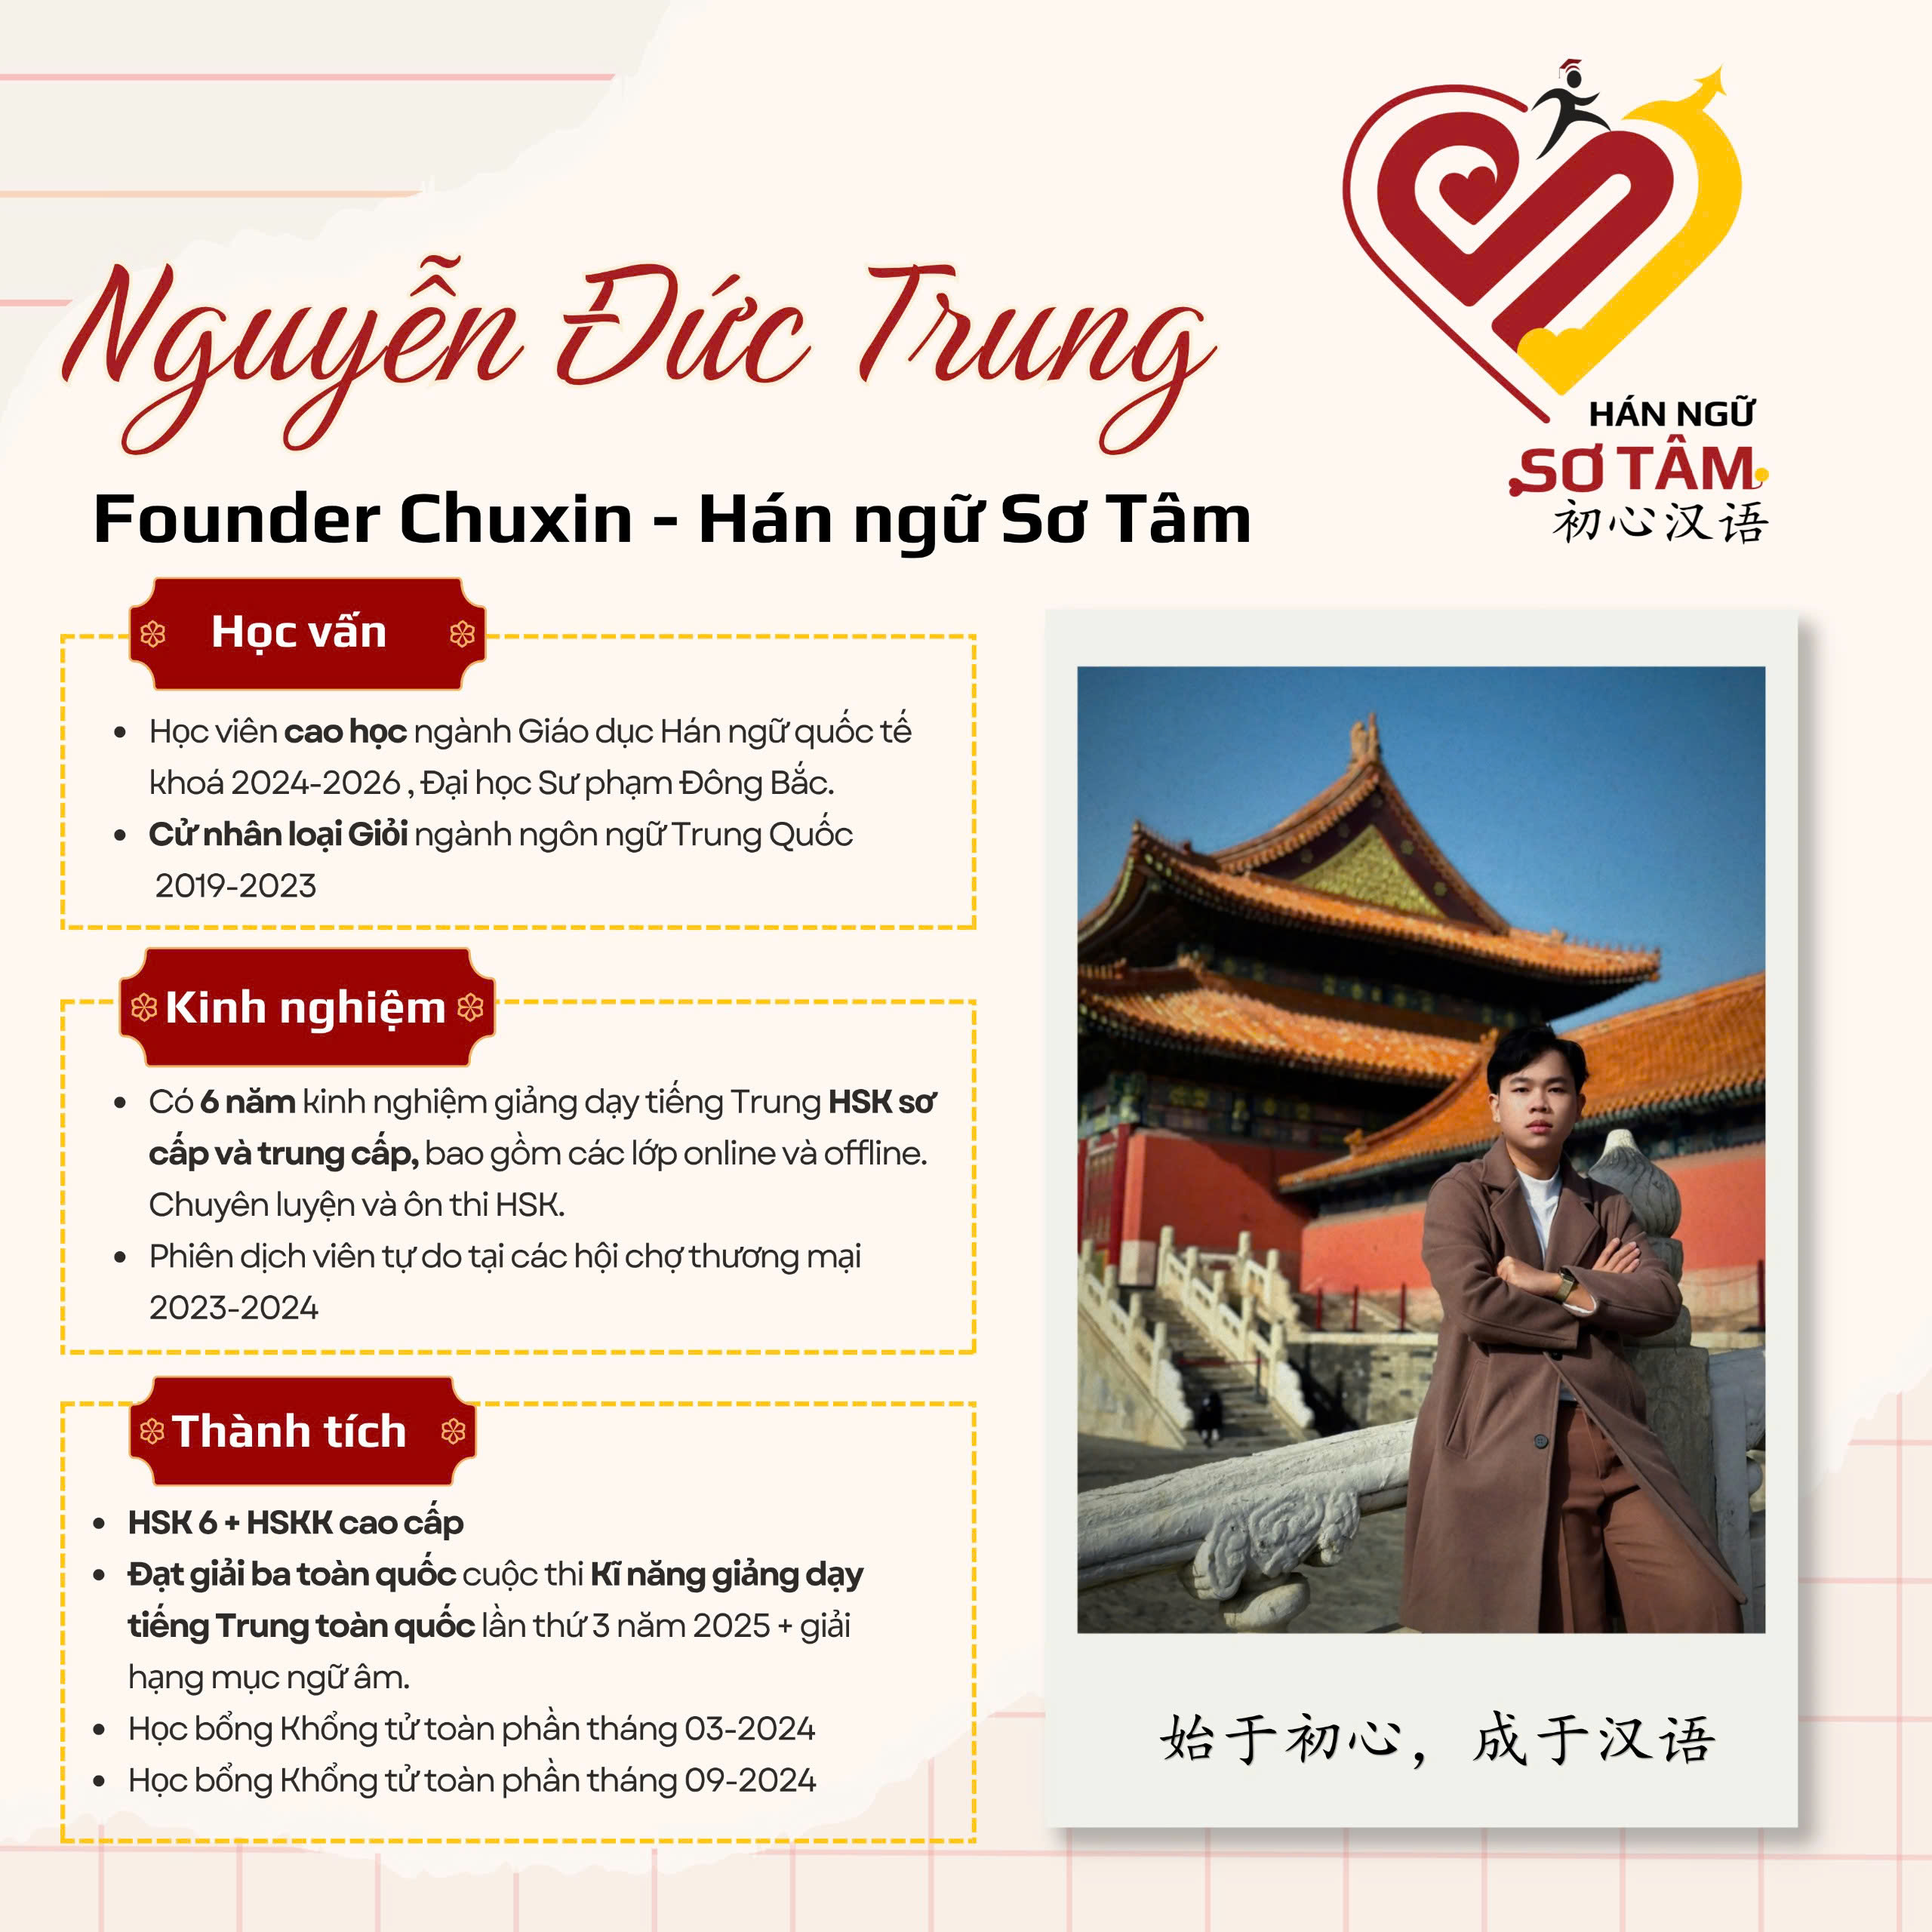
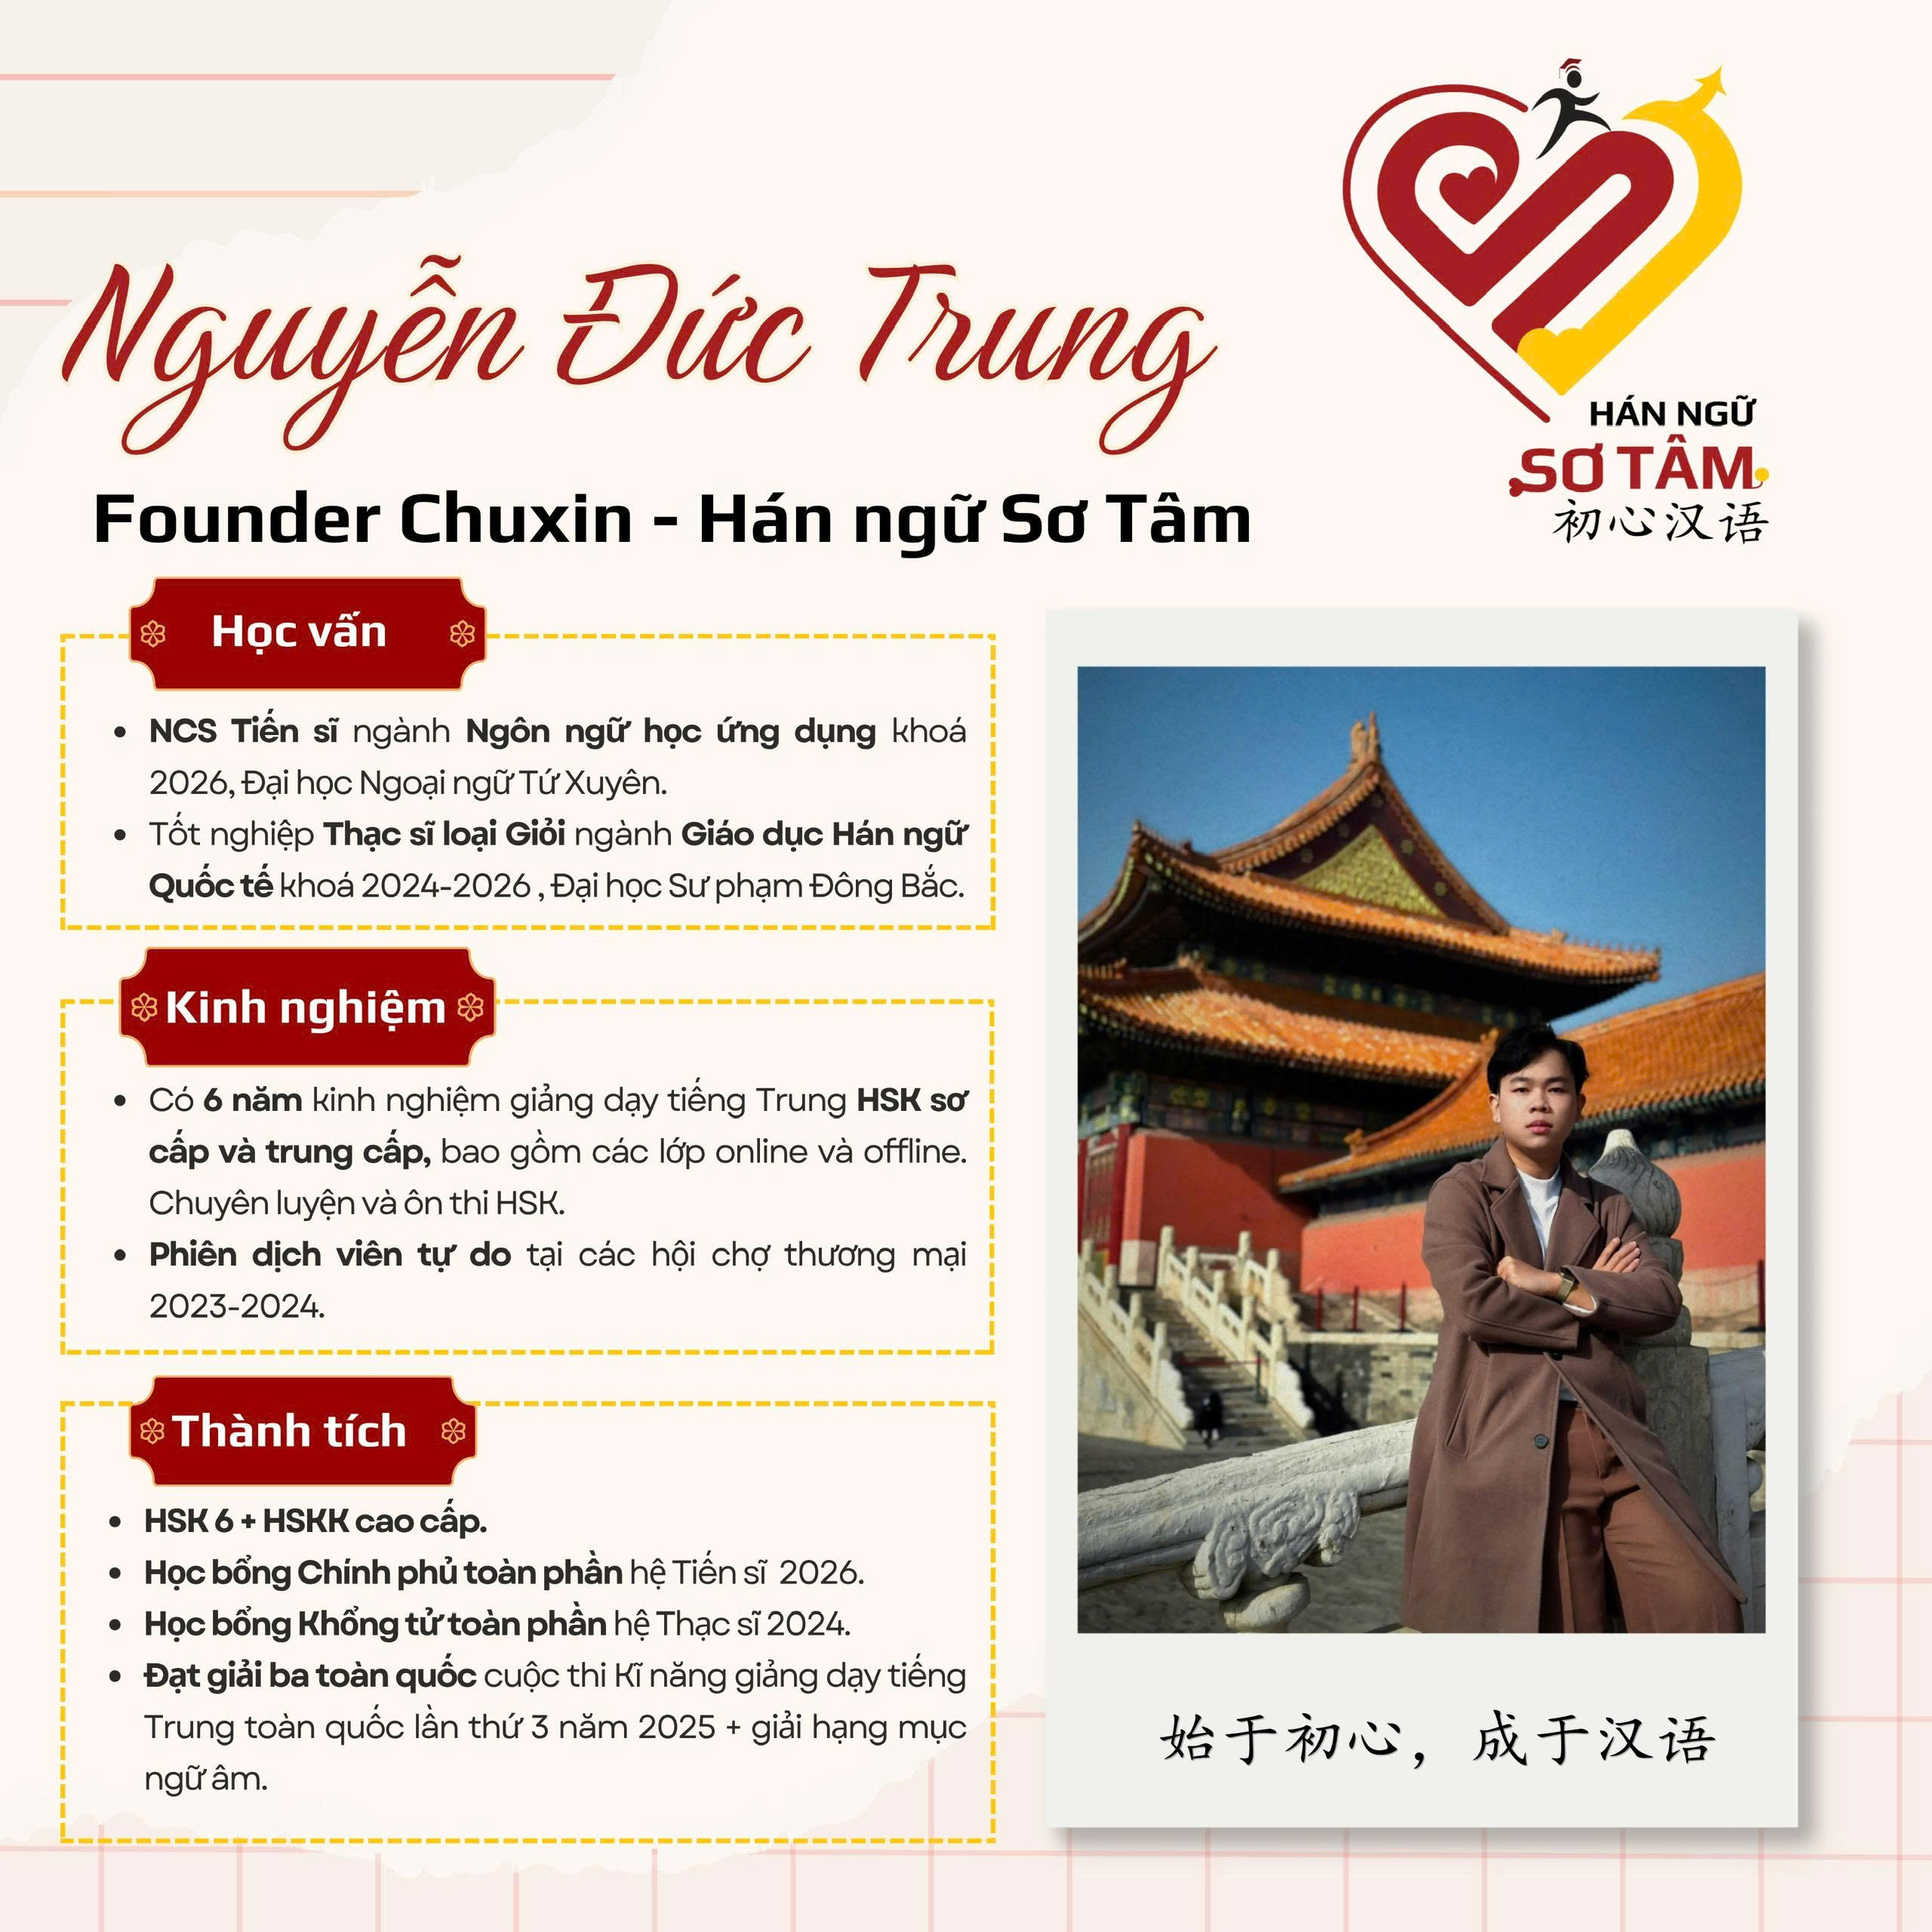
chore: update founder photo and vanilla app version strings

diff --git a/apps/vanilla/shared/styles.css b/apps/vanilla/shared/styles.css
@@ -70,18 +70,18 @@ body {
   padding: 8px 16px; border-radius: 999px;
 }
 
-.hanai-header {
+.sotam-header {
   position: sticky; top: 0; z-index: 50;
   background: rgba(255,255,255,0.85);
   backdrop-filter: blur(10px);
   border-bottom: 1px solid var(--c-divider);
 }
-.hanai-header-inner {
+.sotam-header-inner {
   max-width: 1080px; margin: 0 auto; padding: 12px 20px;
   display: flex; align-items: center; justify-content: space-between;
   gap: 16px;
 }
-.hanai-header-inner .brand {
+.sotam-header-inner .brand {
   display: flex; align-items: center; gap: 10px;
   text-decoration: none; color: var(--c-blue-dark);
   font-weight: 700; font-size: 18px;
@@ -92,46 +92,46 @@ body {
   display: inline-flex; align-items: center; justify-content: center;
   font-family: "Noto Sans SC", sans-serif; font-weight: 700;
 }
-.hanai-nav { display: flex; gap: 16px; }
-.hanai-nav a {
+.sotam-nav { display: flex; gap: 16px; }
+.sotam-nav a {
   text-decoration: none; color: var(--c-text-soft);
   font-weight: 500; padding: 6px 10px; border-radius: 8px;
 }
-.hanai-nav a:hover { background: rgba(0,0,0,0.04); color: var(--c-text); }
-.hanai-user { display: flex; align-items: center; gap: 8px; font-size: 14px; }
+.sotam-nav a:hover { background: rgba(0,0,0,0.04); color: var(--c-text); }
+.sotam-user { display: flex; align-items: center; gap: 8px; font-size: 14px; }
 
-.hanai-modal {
+.sotam-modal {
   position: fixed; inset: 0; background: rgba(15,23,42,0.45);
   display: flex; align-items: center; justify-content: center;
   z-index: 100;
 }
-.hanai-modal-card {
+.sotam-modal-card {
   background: white; border-radius: 20px; padding: 28px;
   width: min(420px, 92vw);
   display: flex; flex-direction: column; gap: 12px;
   box-shadow: 0 20px 50px rgba(0,0,0,0.2);
   position: relative;
 }
-.hanai-modal-card h3 { margin: 0 0 4px; }
-.hanai-modal-card input {
+.sotam-modal-card h3 { margin: 0 0 4px; }
+.sotam-modal-card input {
   padding: 11px 14px; border: 1.5px solid var(--c-divider);
   border-radius: 10px; font-size: 15px;
 }
-.hanai-modal-card .divider {
+.sotam-modal-card .divider {
   text-align: center; color: var(--c-text-muted); font-size: 13px;
   margin: 8px 0;
 }
 .close-x { position: absolute; top: 12px; right: 14px; }
 
-#hanai-toast {
+#sotam-toast {
   position: fixed; left: 50%; bottom: 36px; transform: translateX(-50%);
   background: var(--c-text); color: white; padding: 10px 18px;
   border-radius: 999px; font-size: 14px; opacity: 0;
   transition: opacity 0.2s ease, transform 0.2s ease;
   pointer-events: none; z-index: 200;
 }
-#hanai-toast.show { opacity: 1; transform: translateX(-50%) translateY(-6px); }
-#hanai-toast.toast-error { background: var(--c-wrong); }
+#sotam-toast.show { opacity: 1; transform: translateX(-50%) translateY(-6px); }
+#sotam-toast.toast-error { background: var(--c-wrong); }
 
 .lesson-shell {
   max-width: 920px; margin: 32px auto; padding: 0 20px;

diff --git a/apps/vanilla/me.html b/apps/vanilla/me.html
@@ -10,7 +10,7 @@
   <script src="/shared/firebase-config.js"></script>
 </head>
 <body>
-  <header id="hanai-header" class="hanai-header"></header>
+  <header id="sotam-header" class="sotam-header"></header>
   <main class="lesson-shell">
     <h1 style="color: var(--c-blue-dark);">Tiến độ học tập</h1>
     <p class="muted">Tổng hợp các bài học bạn đã hoàn thành và điểm cao nhất.</p>

diff --git a/apps/vanilla/index.html b/apps/vanilla/index.html
@@ -12,7 +12,7 @@
   <script src="/shared/firebase-config.js"></script>
 </head>
 <body>
-  <header id="hanai-header" class="hanai-header"></header>
+  <header id="sotam-header" class="sotam-header"></header>
 
   <main class="container" style="padding: 36px 20px 80px;">
     <h1 style="margin-top:0; color: var(--c-blue-dark);">Lớp học tiếng Trung trực tuyến</h1>

diff --git a/apps/vanilla/lesson.html b/apps/vanilla/lesson.html
@@ -12,7 +12,7 @@
   <script src="/shared/firebase-config.js"></script>
 </head>
 <body>
-  <header id="hanai-header" class="hanai-header"></header>
+  <header id="sotam-header" class="sotam-header"></header>
 
   <main class="lesson-shell">
     <a href="/" class="muted" style="text-decoration:none;">← Tất cả bài học</a>
